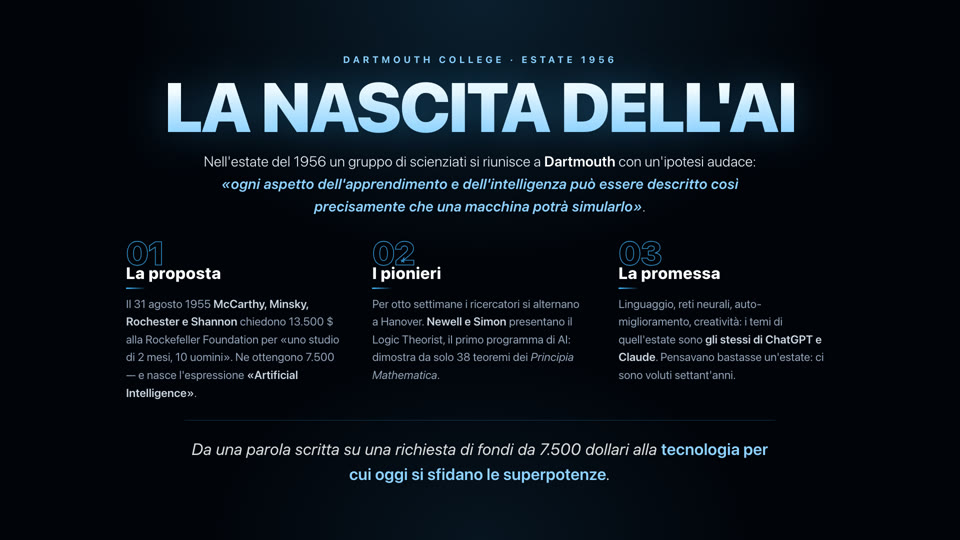
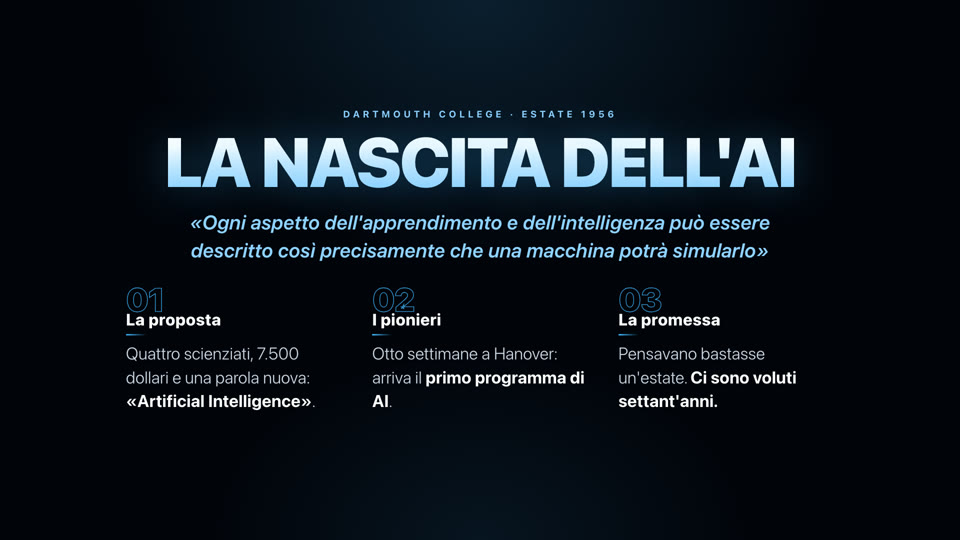
feat: «La nascita dell'AI» più essenziale e al secondo posto
Restano titolo, citazione della proposta e una frase breve per colonna, con
caratteri più grandi; tolte introduzione e chiusura. Nella sequenza viene
subito dopo Saturday Night Science, prima della foto di Dartmouth.

diff --git a/dartmouth-1956-2.html b/dartmouth-1956-2.html
@@ -45,9 +45,9 @@
       text-shadow: 0 0 80px rgba(65,183,255,0.35);
     }
     .lead {
-      font-size: clamp(19px, 1.83vw, 29px);
-      line-height: 1.55; color: #e2e8f0; font-weight: 300;
-      max-width: 1156px; margin: clamp(16px,2.4vh,26px) auto 0;
+      font-size: clamp(22px, 2.3vw, 40px);
+      line-height: 1.4; color: #e2e8f0; font-weight: 300;
+      max-width: 1300px; margin: clamp(20px,3vh,34px) auto 0;
     }
     .lead b { color: #fff; font-weight: 600; }
     .lead .accent { color: var(--accent-soft); font-weight: 600; font-style: italic; }
@@ -83,21 +83,10 @@
       background: linear-gradient(90deg, var(--accent), transparent);
     }
     .col p {
-      font-size: clamp(16px, 1.39vw, 23px); line-height: 1.55;
-      color: #94a3b8; margin: 0;
+      font-size: clamp(20px, 1.9vw, 34px); line-height: 1.4;
+      color: #cbd5e1; margin: 0; font-weight: 300;
     }
-    .col p b { color: #cbd5e1; font-weight: 600; }
-
-    /* ---------- Chiusura ---------- */
-    .closing {
-      max-width: 1180px; text-align: center;
-      font-size: clamp(20px, 1.95vw, 33px);
-      font-style: italic; line-height: 1.5; color: rgba(255,255,255,0.86);
-      padding-top: clamp(20px, 3vh, 34px);
-      border-top: 1px solid rgba(65,183,255,0.28);
-      animation: rise 0.9s 0.5s cubic-bezier(0.16,1,0.3,1) both;
-    }
-    .closing b { color: var(--accent-soft); font-style: normal; font-weight: 600; }
+    .col p b { color: #fff; font-weight: 700; }
 
     @media (max-aspect-ratio: 1/1) {
       .stage { justify-content: flex-start; overflow-y: auto; padding-top: clamp(40px,7vh,70px); padding-bottom: clamp(90px,13vh,120px); }
@@ -120,8 +109,6 @@
       <div class="col"><span class="num">02</span><h3 id="h2"></h3><p id="p2"></p></div>
       <div class="col"><span class="num">03</span><h3 id="h3"></h3><p id="p3"></p></div>
     </div>
-
-    <p class="closing" id="closing"></p>
   </div>
 
   <div id="nav-dots"></div>
@@ -139,27 +126,25 @@
       it: {
         eyebrow: 'Dartmouth College · Estate 1956',
         name: 'La nascita dell\'AI',
-        lead: 'Nell\'estate del 1956 un gruppo di scienziati si riunisce a <b>Dartmouth</b> con un\'ipotesi audace: <span class="accent">«ogni aspetto dell\'apprendimento e dell\'intelligenza può essere descritto così precisamente che una macchina potrà simularlo»</span>.',
-        h1: 'La proposta', p1: 'Il 31 agosto 1955 <b>McCarthy, Minsky, Rochester e Shannon</b> chiedono 13.500 $ alla Rockefeller Foundation per «uno studio di 2 mesi, 10 uomini». Ne ottengono 7.500 — e nasce l\'espressione <b>«Artificial Intelligence»</b>.',
-        h2: 'I pionieri', p2: 'Per otto settimane i ricercatori si alternano a Hanover. <b>Newell e Simon</b> presentano il Logic Theorist, il primo programma di AI: dimostra da solo 38 teoremi dei <i>Principia Mathematica</i>.',
-        h3: 'La promessa', p3: 'Linguaggio, reti neurali, auto-miglioramento, creatività: i temi di quell\'estate sono <b>gli stessi di ChatGPT e Claude</b>. Pensavano bastasse un\'estate: ci sono voluti settant\'anni.',
-        closing: 'Da una parola scritta su una richiesta di fondi da 7.500 dollari alla <b>tecnologia per cui oggi si sfidano le superpotenze</b>.'
+        lead: '<span class="accent">«Ogni aspetto dell\'apprendimento e dell\'intelligenza può essere descritto così precisamente che una macchina potrà simularlo»</span>',
+        h1: 'La proposta', p1: 'Quattro scienziati, 7.500 dollari e una parola nuova: <b>«Artificial Intelligence»</b>.',
+        h2: 'I pionieri',  p2: 'Otto settimane a Hanover: arriva il <b>primo programma di AI</b>.',
+        h3: 'La promessa', p3: 'Pensavano bastasse un\'estate. <b>Ci sono voluti settant\'anni.</b>'
       },
       en: {
         eyebrow: 'Dartmouth College · Summer 1956',
         name: 'The birth of AI',
-        lead: 'In the summer of 1956 a group of scientists gathers at <b>Dartmouth</b> on a bold conjecture: <span class="accent">“every aspect of learning or any other feature of intelligence can in principle be so precisely described that a machine can be made to simulate it”</span>.',
-        h1: 'The proposal', p1: 'On August 31, 1955 <b>McCarthy, Minsky, Rochester and Shannon</b> ask the Rockefeller Foundation for $13,500 for “a 2 month, 10 man study”. They get $7,500 — and the phrase <b>“Artificial Intelligence”</b> is born.',
-        h2: 'The pioneers', p2: 'For eight weeks researchers come and go in Hanover. <b>Newell and Simon</b> present the Logic Theorist, the first AI program: on its own it proves 38 theorems of <i>Principia Mathematica</i>.',
-        h3: 'The promise', p3: 'Language, neural nets, self-improvement, creativity: the topics of that summer are <b>the same as ChatGPT and Claude</b>. They thought one summer would do: it took seventy years.',
-        closing: 'From a word on a $7,500 grant request to <b>the technology the superpowers now compete over</b>.'
+        lead: '<span class="accent">“Every aspect of learning or any other feature of intelligence can be so precisely described that a machine can be made to simulate it”</span>',
+        h1: 'The proposal', p1: 'Four scientists, $7,500 and a new phrase: <b>“Artificial Intelligence”</b>.',
+        h2: 'The pioneers', p2: 'Eight weeks in Hanover: here comes <b>the first AI program</b>.',
+        h3: 'The promise',  p3: 'They thought one summer would do. <b>It took seventy years.</b>'
       }
     };
 
     function set(id, html){ document.getElementById(id).innerHTML = html; }
     function renderTexts() {
       const t = TXT[lang];
-      ['eyebrow','name','lead','h1','p1','h2','p2','h3','p3','closing'].forEach(k => set(k, t[k]));
+      ['eyebrow','name','lead','h1','p1','h2','p2','h3','p3'].forEach(k => set(k, t[k]));
     }
     function onLangChange() { renderTexts(); }
 

diff --git a/js/sns.js b/js/sns.js
@@ -10,8 +10,8 @@ const SNS = (function () {
   // esauriscono la memoria dei telefoni). Si rigenera dopo ogni modifica.
   const SLIDES = [
     { id: 'slide:saturday-night-science', src: 'saturday-night-science.html', thumb: 'img/sns/saturday-night-science.jpg', title: 'Saturday Night Science', sub: 'Macchine che pensano da sole' },
-    { id: 'slide:dartmouth-1956',         src: 'dartmouth-1956.html', thumb: 'img/sns/dartmouth-1956.jpg',         title: 'Dartmouth 1956',         sub: 'Copertina' },
     { id: 'slide:dartmouth-1956-2',       src: 'dartmouth-1956-2.html', thumb: 'img/sns/dartmouth-1956-2.jpg',       title: "La nascita dell'AI",     sub: 'Proposta · Pionieri · Promessa' },
+    { id: 'slide:dartmouth-1956',         src: 'dartmouth-1956.html', thumb: 'img/sns/dartmouth-1956.jpg',         title: 'Dartmouth 1956',         sub: 'Copertina' },
     { id: 'slide:ospite-rosasco',   src: 'ospite.html?id=rosasco',   thumb: 'img/sns/ospite-rosasco.jpg',   title: 'Lorenzo Rosasco',   sub: 'Intervista · DIBRIS' },
     { id: 'slide:ospite-villa',     src: 'ospite.html?id=villa',     thumb: 'img/sns/ospite-villa.jpg',     title: 'Silvia Villa',      sub: 'Intervista · DIMA' },
     { id: 'slide:ospite-benvenuto', src: 'ospite.html?id=benvenuto', thumb: 'img/sns/ospite-benvenuto.jpg', title: 'Federico Benvenuto', sub: 'Intervista · DIMA' },
